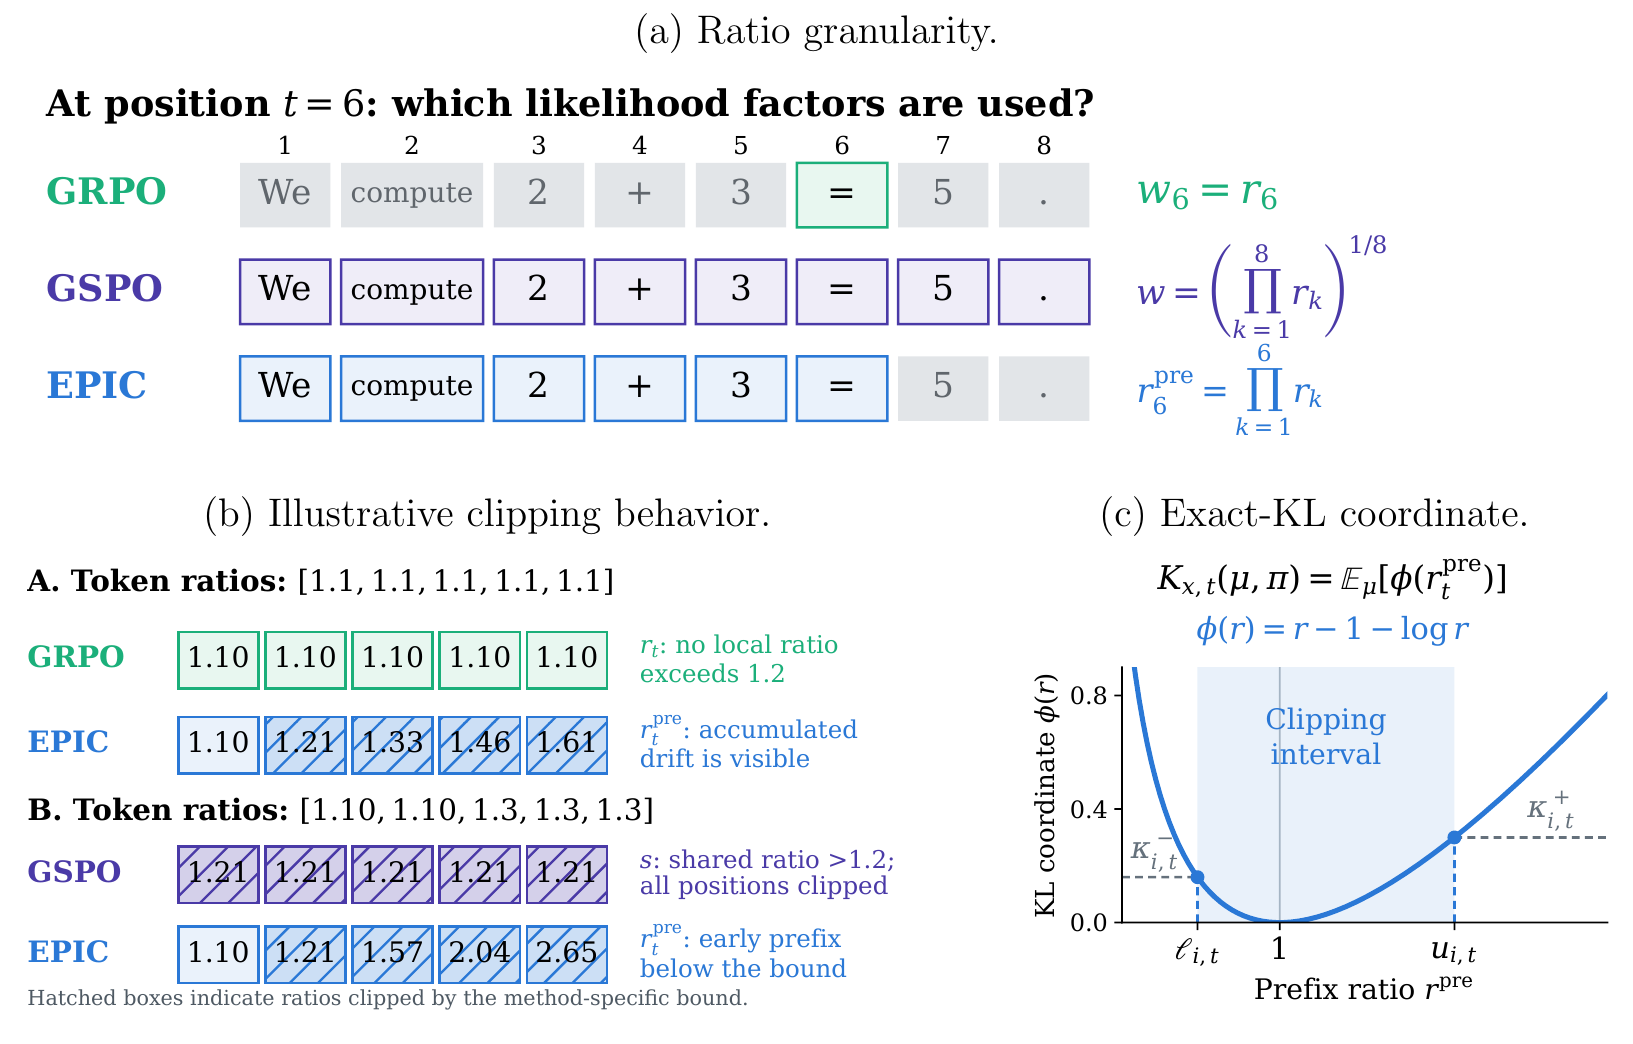
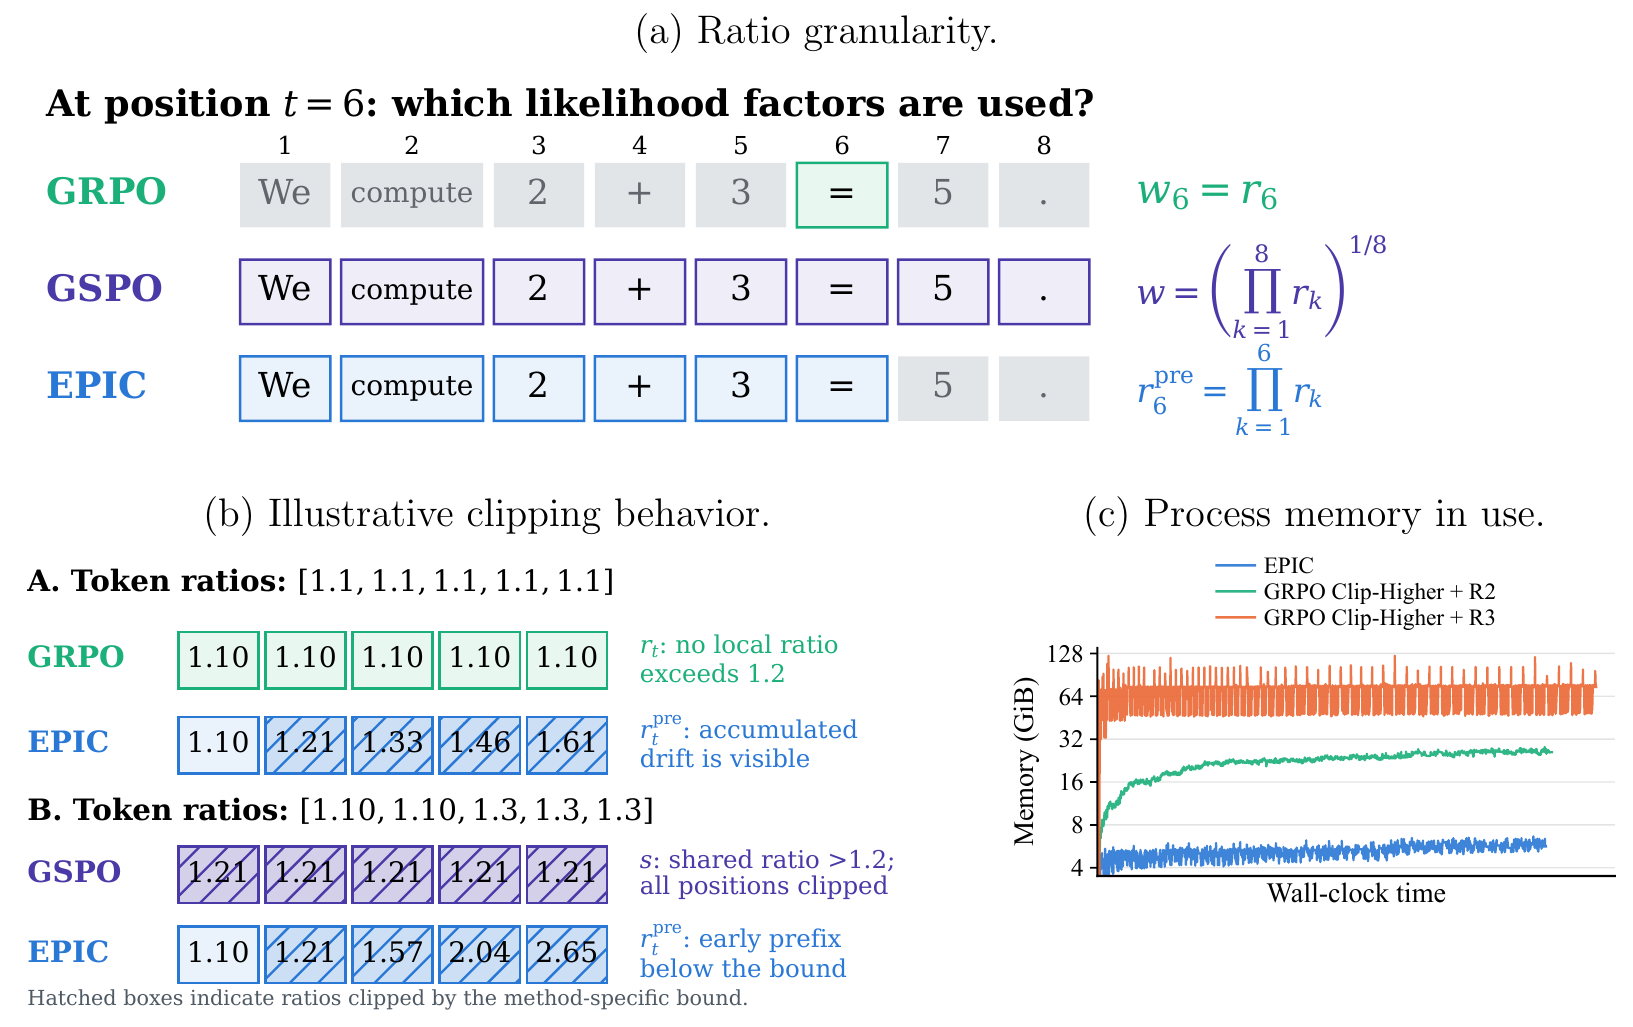
Replace README clipping figure KL panel with memory curves

diff --git a/README.md b/README.md
@@ -72,15 +72,15 @@ current-token-only gradient path. The exact identity motivates the clipping
 design; the practical surrogate does not enforce a hard distribution-level
 KL constraint.
 
-[![Why prefix-aware clipping is different: ratio granularity, illustrative clipping decisions, and Exact-KL geometry.](docs/images/prefix-clipping.png)](docs/images/prefix-clipping.png)
+[![Prefix-aware clipping and memory efficiency: ratio granularity, illustrative clipping decisions, and driver-process CPU memory.](docs/images/prefix-clipping.png)](docs/images/prefix-clipping.png)
 
-**Why prefix-aware clipping is different.** **(a)** Token, response, and prefix
+**Prefix-aware clipping and memory efficiency.** **(a)** Token, response, and prefix
 ratios use different likelihood factors. **(b)** With positive advantages and
 illustrative bounds, EPIC detects cumulative drift missed by GRPO while
 preserving early-prefix signals suppressed by GSPO. Hatched boxes indicate
-clipped positions. **(c)** The behavior-policy expectation of
-$\phi(r)=r-1-\log r$ equals the prefix-distribution KL divergence; coordinate
-budgets determine the clipping bounds. Click the figure to enlarge.
+clipped positions. **(c)** Driver-process resident CPU memory during training.
+EPIC uses less memory than GRPO Clip-Higher with R2 or R3, without requiring
+expert-routing replay. The vertical axis is logarithmic. Click the figure to enlarge.
 
 ### Main results
 
